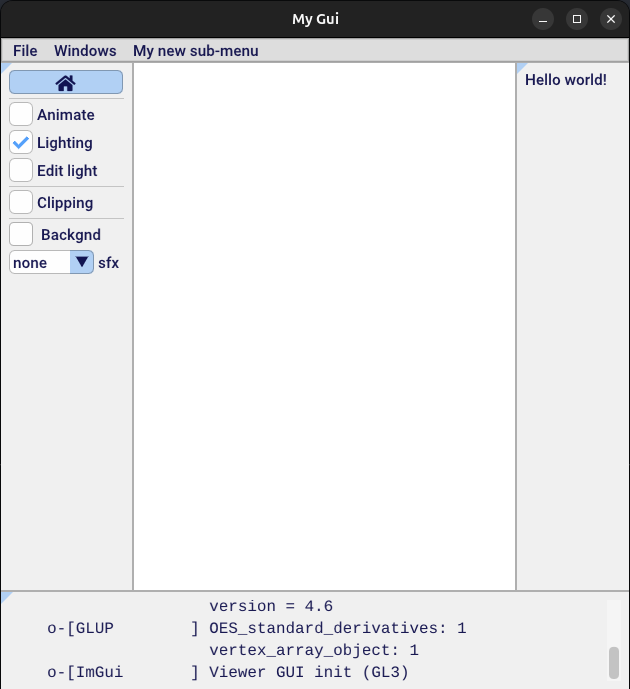
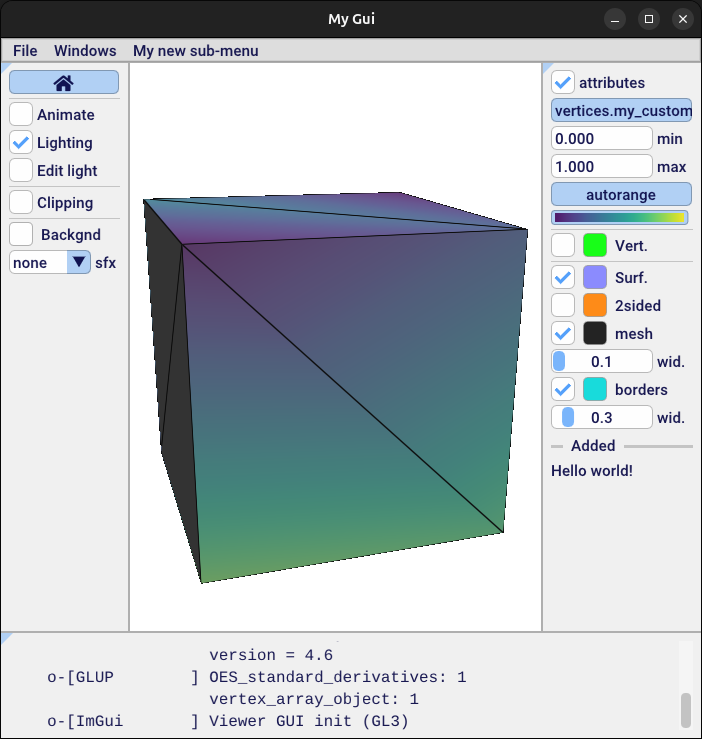
update images

diff --git a/README.md b/README.md
@@ -91,9 +91,10 @@ ninja
 
 ## Customize the project
 
+- [ ] Change the [LICENSE](LICENSE)
 - [ ] Rename the project in [CMakeLists.txt](CMakeLists.txt) (the `project()` directive)
 - [ ] Rename the executables. To do so, you have to rename the `apps/*.cpp` files, and update accordingly [CMakeLists.txt](CMakeLists.txt) directives `add_executable()`, `target_include_directories()` and `target_link_libraries()`. To rename the GUI window title, change the value passed to the `SimpleMeshApplication` constructor.
-- [ ] Change the [LICENSE](LICENSE)
+- [ ] Delete the [images/](images/) folder
 - [ ] Overwrite this README
 
 ## Update Geogram

diff --git a/images/README.md b/images/README.md
@@ -1,0 +1,17 @@
+# Images generation
+
+Same image width for the CLI and the GUI &rarr; same columns width in the rendering of the README.<br/>
+For the CLI image, dimensions are enforced in [cli.tape](cli.tape). For the GUI image, dimensions are given as command line arguments.
+
+**CLI**
+
+```bash
+vhs cli.tape
+```
+
+**GUI**
+
+```bash
+./gui gfx:geometry=700x700
+```
+Then adjust panels sizes, rotate the cube a bit, and take a screenshot
